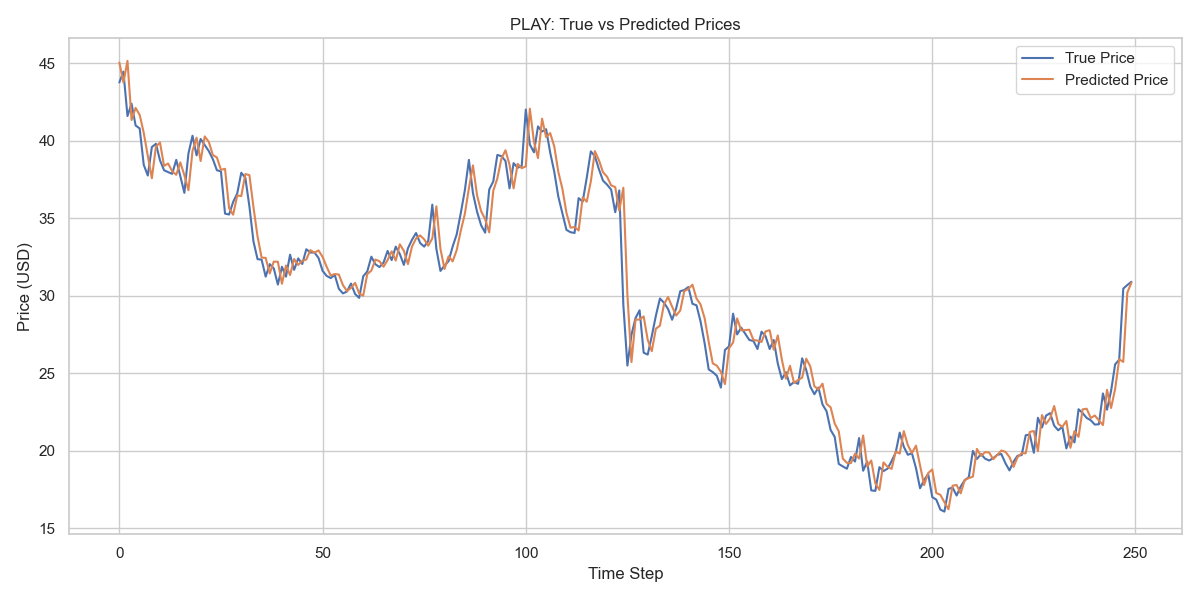
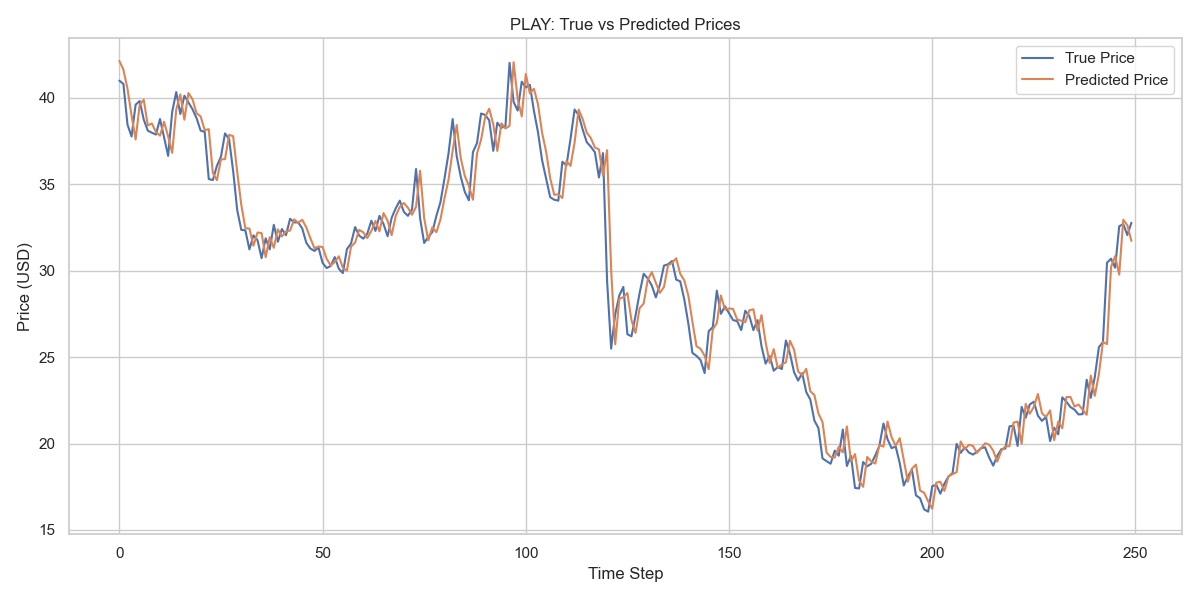
Update stock price prediction project: added cleaned code, readme, plots

diff --git a/main.py b/main.py
@@ -1,0 +1,100 @@
+import os
+import argparse
+import yfinance as yf
+import numpy as np
+import matplotlib.pyplot as plt
+import seaborn as sns
+from sklearn.linear_model import LinearRegression
+from sklearn.metrics import mean_squared_error, mean_absolute_error
+from sklearn.model_selection import train_test_split
+import joblib
+
+sns.set(style="whitegrid")
+plt.rcParams["figure.figsize"] = (12, 6)
+
+
+def create_windowed_data(series, window_size):
+    X, y = [], []
+    for i in range(len(series) - window_size):
+        X.append(series[i:i + window_size])
+        y.append(series[i + window_size])
+    return np.array(X), np.array(y)
+
+
+def main(args):
+    print(f"Downloading data for {args.ticker}...")
+    df = yf.download(args.ticker, period=args.period)[["Close"]].dropna()
+    print("Data downloaded successfully.\n")
+
+    # Plot price history
+    plt.plot(df.index, df["Close"], label="Close Price")
+    plt.title(f"{args.ticker} Stock Price History")
+    plt.xlabel("Date")
+    plt.ylabel("Price (USD)")
+    plt.legend()
+    plt.tight_layout()
+
+    os.makedirs(args.plot_dir, exist_ok=True)
+    price_history_path = os.path.join(args.plot_dir, "price_history.png")
+    plt.savefig(price_history_path)
+    plt.show()
+
+    # Prepare windowed data
+    prices = df["Close"].values
+    X, y = create_windowed_data(prices, args.window_size)
+
+    # Split train/test (no shuffle)
+    X_train, X_test, y_train, y_test = train_test_split(
+        X, y, test_size=args.test_size, shuffle=False
+    )
+
+    print(f"Train shape: {X_train.shape}")
+    print(f"Test shape:  {X_test.shape}")
+
+    # Train model
+    model = LinearRegression()
+    model.fit(X_train.reshape(len(X_train), -1), y_train)
+
+    # Predict
+    y_pred = model.predict(X_test.reshape(len(X_test), -1))
+
+    # Plot predictions vs true
+    plt.plot(range(len(y_test)), y_test, label="True Price")
+    plt.plot(range(len(y_pred)), y_pred, label="Predicted Price")
+    plt.title(f"{args.ticker}: True vs Predicted Prices")
+    plt.xlabel("Time Step")
+    plt.ylabel("Price (USD)")
+    plt.legend()
+    plt.tight_layout()
+
+    prediction_plot_path = os.path.join(args.plot_dir, "prediction_vs_true.png")
+    plt.savefig(prediction_plot_path)
+    plt.show()
+
+    # Metrics
+    mse = mean_squared_error(y_test, y_pred)
+    rmse = np.sqrt(mse)
+    mae = mean_absolute_error(y_test, y_pred)
+
+    print(f"\n📉 MSE:  {mse:.4f}")
+    print(f"📉 RMSE: {rmse:.4f}")
+    print(f"📉 MAE:  {mae:.4f}")
+
+    # Save model
+    os.makedirs(args.model_dir, exist_ok=True)
+    model_path = os.path.join(args.model_dir, f"{args.ticker}_stock_model.pkl")
+    joblib.dump(model, model_path)
+    print(f"\n✅ Model saved to {model_path}")
+
+
+if __name__ == "__main__":
+    parser = argparse.ArgumentParser(description="Stock Price Prediction with Linear Regression")
+    parser.add_argument("--ticker", type=str, default="PLAY", help="Stock ticker symbol")
+    parser.add_argument("--period", type=str, default="5y", help="Data period for download (e.g., 1y, 5y)")
+    parser.add_argument("--window_size", type=int, default=10, help="Window size for time series data")
+    parser.add_argument("--test_size", type=float, default=0.2, help="Proportion of test dataset")
+    parser.add_argument("--plot_dir", type=str, default="plots", help="Directory to save plots")
+    parser.add_argument("--model_dir", type=str, default="models", help="Directory to save model")
+
+    args = parser.parse_args()
+    main(args)

diff --git a/readme.md b/readme.md
@@ -1,53 +1,80 @@
-# 📈 Stock Price Prediction with Linear Regression
+# Stock Price Prediction Using Linear Regression on Time Series Data
 
-This project demonstrates a simple stock price prediction pipeline using historical data and a windowed Linear Regression model.
+This project demonstrates a simple approach to predict stock prices using historical closing prices and a linear regression model trained on sliding window time-series data.
 
-## 📌 Project Summary
+---
 
-- Ticker: `PLAY` (Dave & Buster's Entertainment)
-- Source: Yahoo Finance via `yfinance`
-- Approach: Sliding window time-series regression
-- Model: `sklearn.linear_model.LinearRegression`
-- Metrics: MSE, RMSE, MAE
+## 📈 Objective
 
-## 📂 Structure
+Predict the next day’s closing price of a stock based on the past `window_size` days of closing prices.
 
-.
-├── stock_price_prediction.py
-├── models/
-│ └── play_stock_model.pkl
-├── requirements.txt
-└── README.md
+---
+
+## ⚙ Features
+
+- Download historical stock prices using `yfinance`
+- Create windowed input-output pairs for time series regression
+- Train/test split without shuffling (to preserve temporal order)
+- Linear regression model training and evaluation
+- Visualization of price history and predicted vs true prices
+- Save trained model and plots to disk
+
+---
+
+## 📂 Project Structure
+
+```
+
+stock-price-prediction/
+├── main.py             # Main script for data download, training, evaluation, and plotting
+├── models/             # Saved trained model(s)
+├── plots/              # Visualizations (price history, prediction vs true)
+├── requirements.txt    # Python dependencies
+└── README.md           # This file
+
+````
+
+---
+
+## 🛠 Requirements
+
+Install dependencies via pip:
+
+```bash
+pip install yfinance pandas numpy matplotlib seaborn scikit-learn joblib
+````
+
+---
 
 ## ▶ How to Run
 
-1. Install dependencies:
+Simply run:
 
 ```bash
-pip install -r requirements.txt
-
+python main.py
 ```
-2. Run the script:
 
-```bash
-python stock_price_prediction.py
-```
-The trained model will be saved in the models/ directory.
+---
 
-📊 Example Output
-MSE: 123.4567
+## 📊 Outputs
 
-RMSE: 11.1111
+* `plots/price_history.png` — Historical closing prices chart
+* `plots/prediction_vs_true.png` — Plot comparing predicted and true prices on test set
+* `models/play_stock_model.pkl` — Saved trained linear regression model
 
-MAE: 8.8888
+---
 
-🧠 Possible Improvements
-Use LSTM or more advanced models
+## 📉 Evaluation Metrics
 
-Try different tickers or forecast horizons
+* Mean Squared Error (MSE)
+* Root Mean Squared Error (RMSE)
+* Mean Absolute Error (MAE)
 
-Add train/val/test split and grid search
+---
 
+## License
 
+MIT License
 
+---
 
